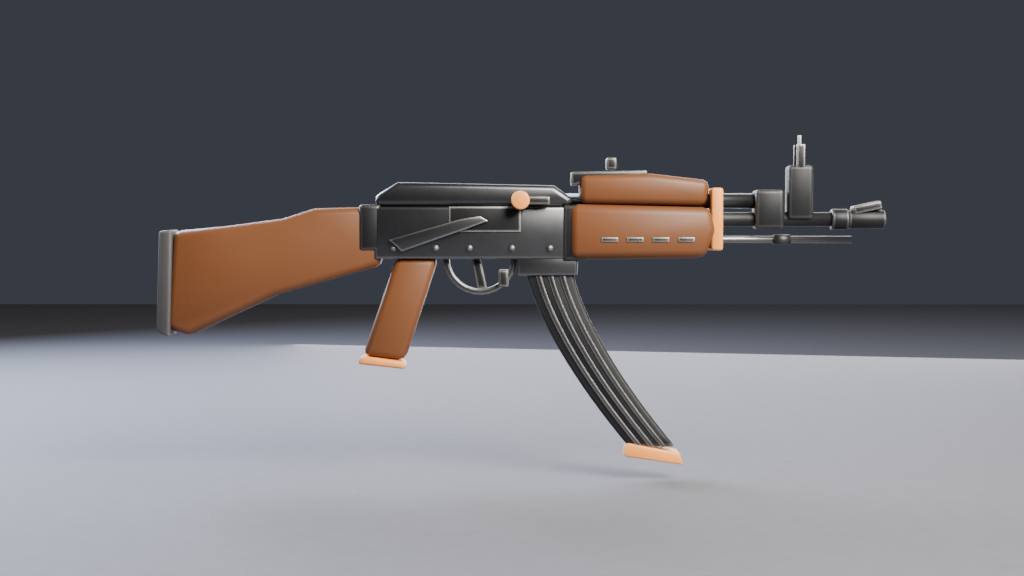
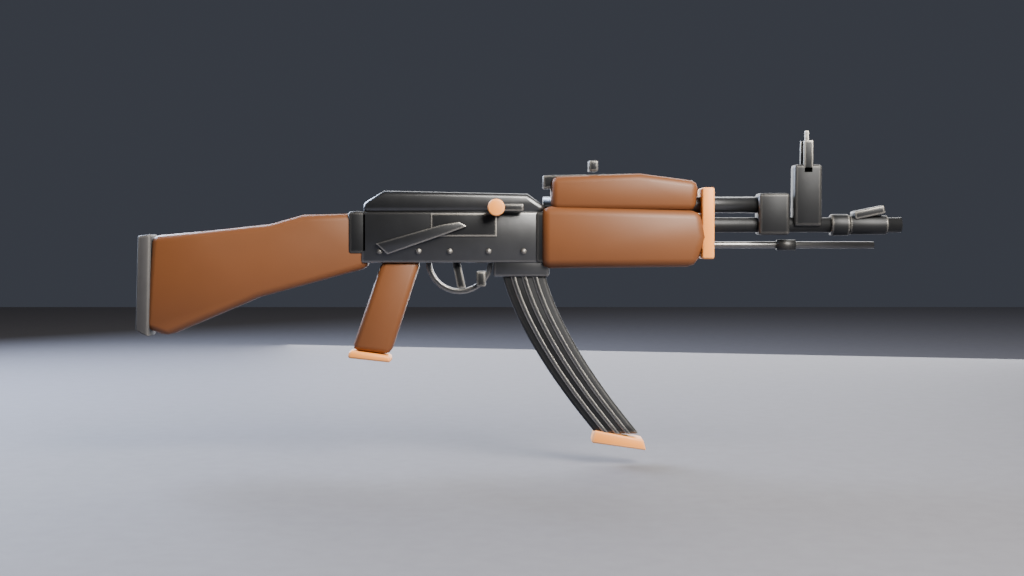
feat(art): fix parenting, slimmer pistol grip, no bipod; rifle front end renders
Claude-Session: https://claude.ai/code/session_01HYo6EY2kdMycxCeuxVvdPV

Changed region(s): [[0.2812, 0.2188, 0.875, 0.8125], [0.125, 0.375, 0.2812, 0.5938]]

diff --git a/tools/art/pistol.py b/tools/art/pistol.py
@@ -7,7 +7,7 @@ import sys
 import bpy
 
 sys.path.insert(0, os.path.dirname(__file__))
-from common import arc_pts, box, cyl, material, photo, profile, reset, studio  # noqa: E402
+from common import arc_pts, box, child, cyl, material, photo, profile, reset, studio  # noqa: E402
 
 OUT = os.path.join(os.path.dirname(__file__), 'out')
 os.makedirs(OUT, exist_ok=True)
@@ -35,28 +35,28 @@ parts.append(slide)
 fr = []
 for i in range(7):
     s = box(f'Serration{i}', (0.0028, 0.0316, 0.026), (-0.080 + i * 0.0065, 0, 0.034), 0.0006, steel)
-    s.parent = slide
+    child(slide, s)
 fr.append(None)
 port = box('EjectionPort', (0.050, 0.002, 0.016), (0.018, R * 0.0152, 0.040), 0.0006, steel)
-port.parent = slide
+child(slide, port)
 fsight = box('FrontSight', (0.012, 0.006, 0.008), (0.083, 0, 0.054), 0.001, slide_m)
-fsight.parent = slide
+child(slide, fsight)
 rsight = box('RearSight', (0.012, 0.016, 0.007), (-0.088, 0, 0.054), 0.001, slide_m)
-rsight.parent = slide
+child(slide, rsight)
 cap = box('SlideCap', (0.006, 0.031, 0.034), (0.090, 0, 0.033), 0.002, fox)
-cap.parent = slide
+child(slide, cap)
 # ---- armação: parte de baixo do ferrolho, guarda-mato longo e cabo inclinado com carregador
 add(profile('Frame', [(-0.098, 0.016), (0.088, 0.016), (0.088, 0.000), (0.052, -0.003), (0.052, -0.026), (0.034, -0.032), (-0.004, -0.030), (-0.008, -0.004), (-0.012, -0.003), (-0.034, -0.004)], 0.026, frame_m, 0.003))
-add(profile('Grip', [(-0.104, 0.016), (-0.012, -0.002), (-0.020, -0.050), (-0.050, -0.118), (-0.122, -0.118)], 0.030, frame_m, 0.005))
+add(profile('Grip', [(-0.100, 0.016), (-0.012, -0.002), (-0.028, -0.050), (-0.046, -0.112), (-0.108, -0.112)], 0.030, frame_m, 0.005))
 add(profile('TriggerGuard', arc_pts(0.030, -0.014, 0.024, 0.017, 180, 360, 12), 0.010, frame_m, 0.0015))
-add(profile('BackStrap', [(-0.104, 0.016), (-0.125, 0.012), (-0.128, -0.050), (-0.122, -0.118), (-0.116, -0.118)], 0.026, steel, 0.002))
+add(profile('BackStrap', [(-0.100, 0.016), (-0.116, 0.012), (-0.120, -0.050), (-0.114, -0.112), (-0.108, -0.112)], 0.026, steel, 0.002))
 trig = profile('Trigger', [(0.020, -0.012), (0.027, -0.012), (0.030, -0.034), (0.022, -0.034)], 0.007, steel, 0.001)
 trig.name = 'Trigger'
 parts.append(trig)
-mag = box('Magazine', (0.068, 0.026, 0.020), (-0.088, 0, -0.124), 0.004, steel)
+mag = box('Magazine', (0.056, 0.026, 0.020), (-0.078, 0, -0.118), 0.004, steel)
 parts.append(mag)
-add(box('MagFloorPlate', (0.074, 0.030, 0.010), (-0.090, 0, -0.139), 0.003, fox))
-add(box('GripPanelL', (0.050, 0.002, 0.070), (-0.074, 0.0155, -0.058), 0.002, steel, rot=(0, math.radians(14), 0)))
+add(box('MagFloorPlate', (0.064, 0.030, 0.010), (-0.080, 0, -0.131), 0.003, fox))
+add(box('GripPanelL', (0.040, 0.002, 0.066), (-0.066, 0.0155, -0.055), 0.002, steel, rot=(0, math.radians(14), 0)))
 add(box('SlideStop', (0.024, 0.003, 0.008), (-0.040, R * 0.0145, 0.010), 0.001, steel))
 add(box('Rail', (0.040, 0.020, 0.006), (0.062, 0, -0.008), 0.001, steel))
 # ---- cano e silenciador longo (com anéis laranja)

diff --git a/tools/art/sniper.py b/tools/art/sniper.py
@@ -8,7 +8,7 @@ import sys
 import bpy
 
 sys.path.insert(0, os.path.dirname(__file__))
-from common import arc_pts, box, cut, cyl, material, photo, profile, reset, sphere, studio  # noqa: E402
+from common import arc_pts, box, child, cut, cyl, material, photo, profile, reset, sphere, studio  # noqa: E402
 
 OUT = os.path.join(os.path.dirname(__file__), 'out')
 os.makedirs(OUT, exist_ok=True)
@@ -47,8 +47,8 @@ stock = profile('Stock', [(-0.160, 0.034), (-0.300, 0.038), (-0.440, 0.036), (-0
 hole = cyl('ThumbHole', 0.034, 0.10, (-0.245, 0, -0.026), 'Y')
 cut(stock, hole)
 parts.append(stock)
-add(box('CheekRiser', (0.130, 0.040, 0.020), (-0.330, 0, 0.056), 0.006, chassis))
-add(cyl('RiserKnob', 0.010, 0.016, (-0.260, R * 0.024, 0.046), 'Y', fox, bevel=0.002))
+add(box('CheekRiser', (0.130, 0.040, 0.020), (-0.330, 0, 0.047), 0.006, chassis))
+add(cyl('RiserKnob', 0.010, 0.016, (-0.260, R * 0.024, 0.047), 'Y', fox, bevel=0.002))
 add(box('ButtPad', (0.032, 0.046, 0.170), (-0.478, 0, -0.070), 0.006, rubber))
 add(box('ButtSpacer', (0.012, 0.046, 0.170), (-0.456, 0, -0.070), 0.002, fox))
 add(profile('TriggerGuard', arc_pts(0.005, -0.040, 0.050, 0.043, 180, 360, 12), 0.012, metal, 0.0015))
@@ -64,9 +64,9 @@ bolt = cyl('BoltBody', 0.0135, 0.07, (-0.12, 0, 0.026), 'X', steel, bevel=0.002)
 bolt.name = 'Bolt'
 parts.append(bolt)
 arm = cyl('BoltArm', 0.0055, 0.075, (-0.115, R * 0.040, 0.026), 'Y', steel)
-arm.parent = bolt
+child(bolt, arm)
 knob = sphere('BoltKnob', 0.0155, (-0.115, R * 0.082, 0.026), fox)
-knob.parent = bolt
+child(bolt, knob)
 # ---- luneta
 add(cyl('ScopeTube', 0.0165, 0.34, (0.0, 0, 0.088), 'X', metal, bevel=0.002))
 add(cyl('ScopeObjective', 0.0285, 0.075, (0.2, 0, 0.088), 'X', metal, bevel=0.003))
@@ -80,11 +80,6 @@ for i, x in enumerate((-0.07, 0.10)):
     add(box(f'Mount{i}', (0.040, 0.034, 0.030), (x, 0, 0.050), 0.004, metal))
     add(cyl(f'Ring{i}', 0.0215, 0.030, (x, 0, 0.088), 'X', metal, bevel=0.002))
 add(box('RailBase', (0.26, 0.030, 0.012), (0.0, 0, 0.034), 0.002, metal))
-# ---- bipé dobrado sob o guarda-mão
-add(box('BipodMount', (0.030, 0.034, 0.016), (0.48, 0, -0.046), 0.003, metal))
-for i, s in enumerate((-1, 1)):
-    add(cyl(f'BipodLeg{i}', 0.0045, 0.115, (0.50, s * 0.020, -0.060), 'X', steel))
-
 root = bpy.data.objects.new('Sniper', None)
 bpy.context.collection.objects.link(root)
 for o in parts:

diff --git a/tools/art/common.py b/tools/art/common.py
@@ -211,3 +211,11 @@ def sphere(name, r, loc, mat=None, segs=24):
     if mat:
         o.data.materials.append(mat)
     return o
+
+
+def child(parent, o):
+    """Prende `o` a `parent` mantendo onde `o` está no mundo (sem somar a posição do pai de novo)."""
+    bpy.context.view_layer.update()
+    o.parent = parent
+    o.matrix_parent_inverse = parent.matrix_world.inverted()
+    return o
